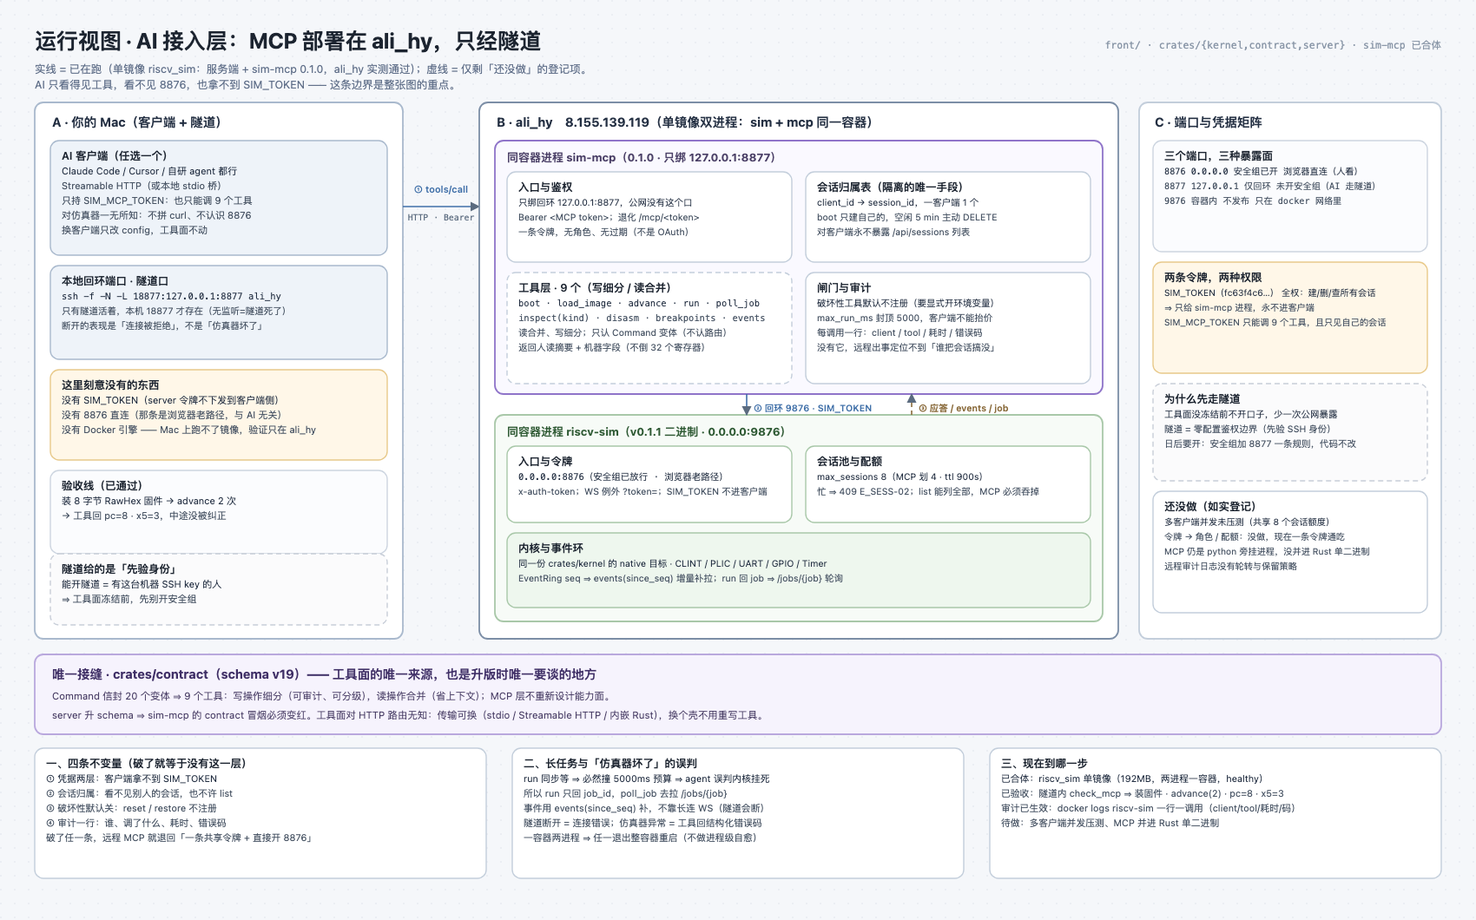
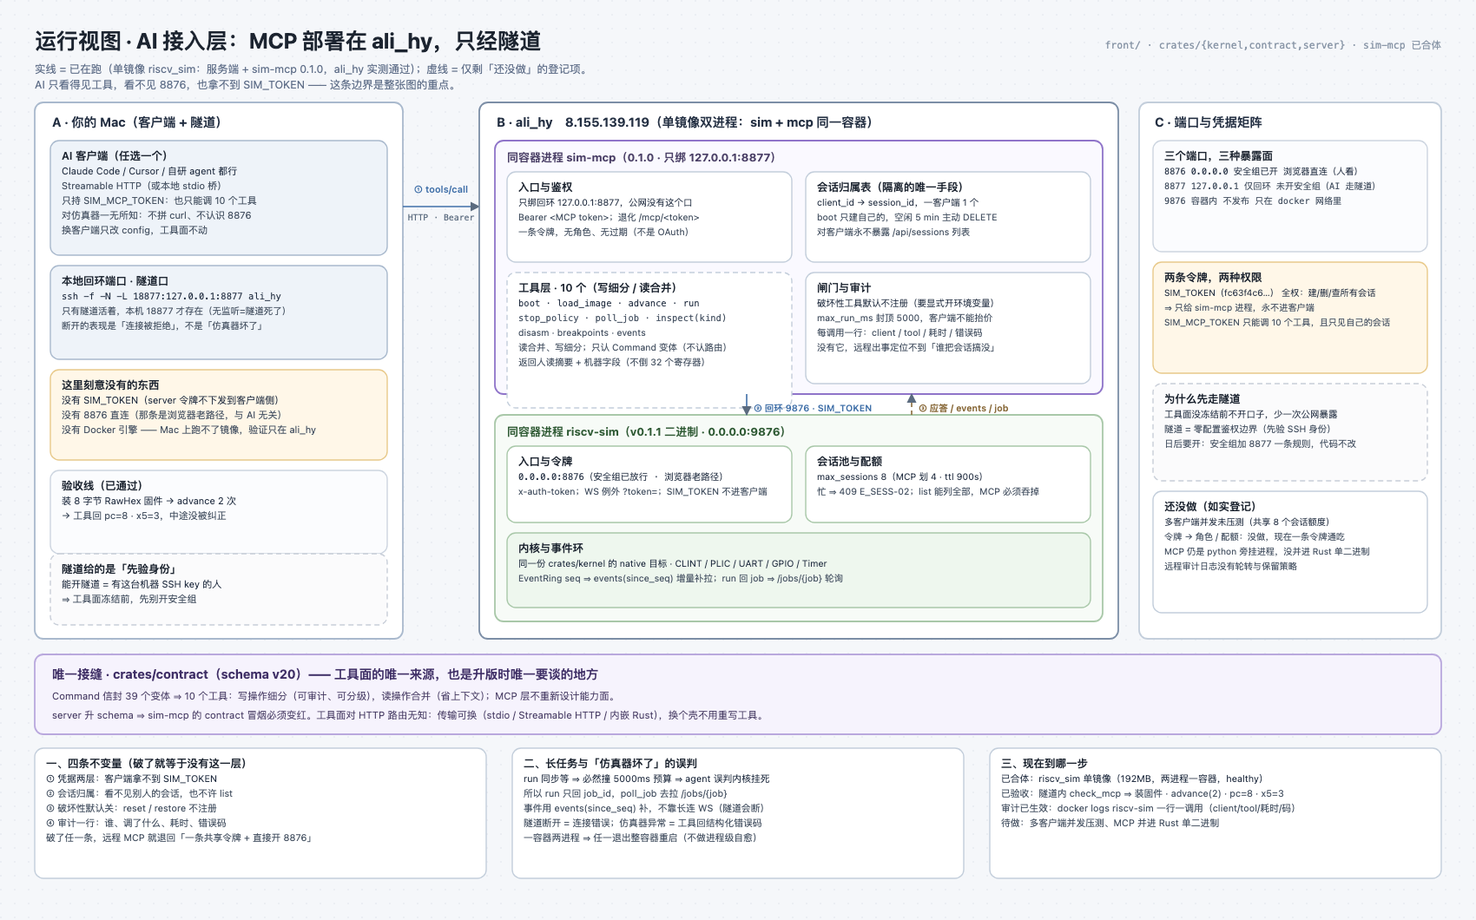
feat(mcp): 第 10 个工具 stop_policy + D 类三条（console 清空 / 预算明说 / 默认预算文案）
- `stop_policy {stop_on_trap, max_trap_events}`：MCP 走契约 `POST …/command`
  （信封 `schema_version` 从 `/api/version` 读，不在 MCP 里留第二份硬编码）；
  内核回 `Error` 当异常抛。`false` 缺配额在 MCP 侧提前拦成 `E_MCP-07`。
- 契约 v20 的 `SetStopPolicy` / `TrapSummary` 镜像同步进 skill 文档
  （SKILL.md 工具表、tools.md 小节、recipes.md 新增 R4b 剧本、排障三条）。
- D-3：`load_image` 装载成功后 `ConsoleRing::clear()` —— 清内容、`base = total`
  继续记账 ⇒ 旧 offset 回 `E_SESS-04` + base，客户端重新对齐，不再把上一份
  固件的输出读成这一份的。
- D-1：`run` 回体新增 `budget_exhausted` / `budget_steps` —— 前缀模式缺省
  1e6 条用尽时 PC 常停在 idle 的 `wif/jal` 循环里，只给 `stop_reason=budget`
  会被读成死锁。
- D-2：`steps` 与 `timeout_ms` 互斥的 400 文案补明「缺省预算 1,000,000 条，
  不够就传 steps」。
- 文档/图：mcp/server.py 升 0.1.3；README 与镜像冒烟脚本改 10 工具口径；
  `mcp-view.svg/.png` 重生成（schema v20 · 39 变体 · 10 工具）。

验证：`cargo test --workspace` 全绿（server lib 71 条含新增 clear 用例）；
`python3 -m py_compile mcp/server.py`；前端 838/838 未受影响。
未验：镜像需 CI 重建（v0.1.8）后跑 `tools/check_image_allinone.py` 才有真机结论。

Changed region(s): [[0.1247, 0.716, 0.4053, 0.7783], [0.3429, 0.3113, 0.4988, 0.4358], [0.8729, 0.3425, 0.9353, 0.3736]]

diff --git a/mcp/server.py b/mcp/server.py
@@ -1,5 +1,5 @@
 #!/usr/bin/env python3
-"""sim-mcp —— 把 riscv_sim 的 HTTP 面收成 9 个 MCP 工具（只依赖标准库）。
+"""sim-mcp —— 把 riscv_sim 的 HTTP 面收成 10 个 MCP 工具（只依赖标准库）。
 
 设计口径（与 docs/architecture/mcp-view.svg 对齐）：
   1. 凭据两层：客户端只持 `SIM_MCP_TOKEN`；`SIM_TOKEN` 只活在本进程 env 里。
@@ -107,6 +107,59 @@ def _decode(blob: bytes):
         return json.loads(blob)
     except json.JSONDecodeError:
         return {"raw": blob.decode("utf-8", "replace")}
+
+
+# --------------------------------------------------------------------------- 契约命令通道
+# ⚠ `SetStopPolicy` 是**契约命令**（不是 REST 资源），走 `POST …/command`：整条
+#    `Message` 进内核，服务端不翻译。信封的 `schema_version` 从 `/api/version`
+#    读 ⇒ ⇒ MCP 里**不**留第二份硬编码版本号。
+_SCHEMA_LOCK = threading.Lock()
+_SCHEMA_CACHE: dict = {}
+
+
+def _schema_version() -> int:
+    with _SCHEMA_LOCK:
+        cur = _SCHEMA_CACHE.get("v")
+    if cur:
+        return cur
+    _, body, _ = _http("GET", "/api/version")
+    v = int(body.get("schema_version") or 0)
+    if v <= 0:
+        raise SimError("E_MCP-10", "/api/version 没给 schema_version", 502)
+    with _SCHEMA_LOCK:
+        _SCHEMA_CACHE["v"] = v
+    return v
+
+
+def _frames_events(frames: list):
+    """把应答帧剥到 `(变体名, 载荷)`；不懂的帧跳过。"""
+    for frame in frames or []:
+        inner = (frame.get("payload") or {}).get("payload") or {}
+        if isinstance(inner, dict) and len(inner) == 1 and next(iter(inner)) in ("Event", "Command"):
+            inner = next(iter(inner.values())) or {}
+        if not isinstance(inner, dict) or len(inner) != 1:
+            continue
+        kind, value = next(iter(inner.items()))
+        yield kind, value
+
+
+def _contract_command(sid: str, payload: dict, req_id: int = 1) -> dict:
+    """发一条契约命令；内核回的 `Error` 事件**当异常抛**（不默默吞掉）。"""
+    msg = {
+        "schema_version": _schema_version(),
+        "direction": "Command",
+        "seq": req_id,
+        "payload": {"Command": payload},
+    }
+    _, body, _ = _http("POST", f"/api/sessions/{sid}/command",
+                       body={"message": msg, "reqId": req_id})
+    frames = body.get("frames") or []
+    for kind, value in _frames_events(frames):
+        if kind == "Error":
+            code = (value or {}).get("code") or "E_MCP-10"
+            detail = (value or {}).get("message") or "内核拒绝了这条命令"
+            raise SimError(code, detail, 400)
+    return body
 
 
 # --------------------------------------------------------------------------- 会话归属
@@ -278,6 +331,36 @@ def t_run(client: str, args: dict) -> dict:
         "text": (f"{note}执行 {body.get('executed')} 条 · pc={body.get('pc')} · "
                  f"t_ps={body.get('t_ps')} · 停因 {body.get('stop_reason')}"),
         "data": body,
+    }
+
+
+def t_stop_policy(client: str, args: dict) -> dict:
+    sid = OWNER.sid(client)
+    if args.get("stop_on_trap") is None:
+        raise SimError("E_MCP-07",
+                       "要显式给 stop_on_trap（true=陷阱交付即停；false=继续跑，但要配额）", 400)
+    stop_on_trap = bool(args["stop_on_trap"])
+    quota = args.get("max_trap_events")
+    if quota is not None:
+        quota = int(quota)
+        if quota < 1:
+            raise SimError("E_MCP-07", "max_trap_events 必须 >= 1", 400)
+    if not stop_on_trap and quota is None:
+        raise SimError("E_MCP-07",
+                       "stop_on_trap=false 必须同时给 max_trap_events"
+                       "（否则 handler 死循环会烧穿预算）", 400)
+    body = _contract_command(sid, {"SetStopPolicy": {
+        "stop_on_trap": stop_on_trap,
+        "max_trap_events": quota,
+    }})
+    if stop_on_trap:
+        text = "停止策略：陷阱**交付即停**（默认 · 与改动前逐字节一致）"
+    else:
+        text = (f"停止策略：陷阱**不**停，最多跑 {quota} 个后停"
+                "（只算同步异常；中断不进这条逻辑）")
+    return {
+        "text": text + " · 会话级粘性：换工程 / 卸载回默认",
+        "data": {"stop_on_trap": stop_on_trap, "max_trap_events": quota, "frames": body.get("frames")},
     }
 
 
@@ -482,6 +565,22 @@ TOOLS = [
         "fn": t_run,
     },
     {
+        "name": "stop_policy",
+        "description": ("会话级陷阱交付策略（R-1）：stop_on_trap=true 交付即停（默认），"
+                        "false 则陷阱继续跑、按 max_trap_events 配额停（**必须**同时给配额）。"
+                        "只作用同步异常（野指针 / 非法指令 / 缺页），中断不进这条逻辑；"
+                        "换工程 / 卸载回默认。"),
+        "inputSchema": {
+            "type": "object",
+            "properties": {
+                "stop_on_trap": {"type": "boolean", "description": "true=交付即停（默认）；false=继续跑"},
+                "max_trap_events": {"type": "integer", "description": "配额（一次批处理窗口内最多几个陷阱）；stop_on_trap=false 时必填"},
+            },
+            "required": ["stop_on_trap"],
+        },
+        "fn": t_stop_policy,
+    },
+    {
         "name": "poll_job",
         "description": "读一条异步作业（run(background=true) 的返回里有 job）。",
         "inputSchema": {
@@ -587,7 +686,7 @@ def handle_rpc(msg: dict, client: str) -> dict | None:
         return _rpc_result(msg_id, {
             "protocolVersion": PROTOCOL if asked != PROTOCOL else asked,
             "capabilities": {"tools": {"listChanged": False}},
-            "serverInfo": {"name": "sim-mcp", "version": "0.1.2"},
+            "serverInfo": {"name": "sim-mcp", "version": "0.1.3"},
             "instructions": ("先 boot，再 load_image(hex=原始字节的十六进制)，然后 advance(n)。"
                              "读状态用 inspect(kind=state)。长任务用 run(background=true)+poll_job。"),
         })
@@ -642,7 +741,7 @@ def _client_id(token: str) -> str:
 
 
 class Handler(BaseHTTPRequestHandler):
-    server_version = "sim-mcp/0.1.2"
+    server_version = "sim-mcp/0.1.3"
     protocol_version = "HTTP/1.1"
 
     def log_message(self, fmt: str, *args) -> None:  # 默认 access log 太吵，审计另有

diff --git a/crates/server/src/session.rs b/crates/server/src/session.rs
@@ -96,6 +96,17 @@ impl ConsoleRing {
         }
     }
 
+    /// 清内容、**不**归零偏移（D-3：换固件时用）。
+    ///
+    /// ⚠ **只 `clear` 不 `reset`**：`total` 继续记账、`base` 推到 `total`
+    /// ⇒ ⇒ 拿着旧 `offset` 的客户端落在窗口之前 ⇒ ⇒ 回 `Err(base)` 让它
+    /// **重新对齐**，而不是把新固件的输出当成旧固件的延续（那才是真的
+    /// 「console 突然变空」）。
+    fn clear(&mut self) {
+        self.buf.clear();
+        self.base = self.total;
+    }
+
     /// 读 `[offset, offset + limit)`。
     ///
     /// 早于 `base` ⇒ `Err(base)`（窗口丢了，告诉客户端从哪重新读）；
@@ -1632,6 +1643,14 @@ fn execute_run(
             "bytes": console.total.saturating_sub(run_base),
             "total": console.total,
         },
+        // ---- D-1：预算用尽要**明说** ----
+        //
+        // ⚠ 前缀模式的缺省预算（1e6 条）跑满时，PC 常常停在 idle 的
+        //   `wif/jal` 循环里 ⇒ ⇒ 客户端只看到 `stop_reason = "budget"` 会
+        //   把它读成「卡死」。这里把「预算用尽」写成**独立字段**，并回显
+        //   上限，让调用方知道该给 `steps` 而不是继续等。
+        "budget_exhausted": stop == "budget",
+        "budget_steps": RUN_PREFIX_DEFAULT_BUDGET,
     });
     // 断点命中：按 pc 去权威表里找（`Halted` 只带 pc，不带 id）。
     if body.get("stop_reason").and_then(|v| v.as_str()) == Some("breakpoint") {
@@ -2178,6 +2197,13 @@ fn spawn_worker(
                                     },
                                 ));
                                 events_ring.push(&restored);
+                                // ---- D-3：换固件 ⇒ console 清内容、偏移不归零 ----
+                                //
+                                // ⚠ 不清的话上一份固件的尾巴会留在 `[0, total)` 里
+                                //   ⇒ ⇒ 客户端从头读会读成「这一份的输出」，误判成
+                                //   「新固件没打印」。偏移继续记账 ⇒ ⇒ 旧 offset 回
+                                //   `E_SESS-04` + base，客户端据此重新对齐。
+                                console.clear();
                                 // 记住这份工程：复位（R-14）要原样重装一遍。
                                 last_image = Some((project_name, kind, bytes));
                             }
@@ -2506,6 +2532,22 @@ mod tests {
         let lost = ring.read(0, 8).expect_err("丢失的窗口必须报错");
         assert_eq!(lost, 2);
         // 晚于 total 的偏移 ⇒ 空，不是错（只是还没产生）。
+        assert_eq!(ring.read(6, 8).expect("未产生不算丢"), b"");
+    }
+
+    /// D-3：`clear` 清内容但**不**归零偏移 ⇒ ⇒ 旧 offset 被如实拒绝。
+    #[test]
+    fn console_ring_clear_keeps_the_offset_accounting() {
+        let mut ring = ConsoleRing::new(64);
+        ring.push(b"old");
+        ring.clear();
+        assert_eq!(ring.total, 3, "total 是**写过**的记账，不因清空而回退");
+        assert_eq!(ring.base, 3, "base 推到 total ⇒ 旧窗口全部作废");
+        // 旧 offset ⇒ 报 base（客户端重新对齐），不是「变空了」。
+        assert_eq!(ring.read(0, 8).expect_err("旧窗口必须报错"), 3);
+        // 从新 base 起读 ⇒ 只有新字节。
+        ring.push(b"new");
+        assert_eq!(ring.read(3, 8).expect("新窗口"), b"new");
         assert_eq!(ring.read(6, 8).expect("未产生不算丢"), b"");
     }
 

diff --git a/tools/check_image_allinone.py b/tools/check_image_allinone.py
@@ -7,7 +7,7 @@
     1. 不给 SIM_MCP_TOKEN 时只是服务端（老行为）—— 这一条由 check_image_front.py 守
     2. 给了 SIM_MCP_TOKEN ⇒ 9876 与 8877 都 /healthz 200
     3. 前端模块图完整（少文件就白屏的那次事故）
-    4. MCP 的 tools/list 至少 9 个工具，且 boot 在
+    4. MCP 的 tools/list 至少 10 个工具，且 boot / stop_policy 在
     5. MCP 的 /healthz 报的是**容器内**上游（127.0.0.1:9876），不是宿主端口
 
 为什么单独一个脚本：合成镜像比单进程镜像多两个失效面 —— 「页面能开但 AI 连不上」
@@ -91,11 +91,11 @@ def main() -> int:
         tools = mcp_post(MCP_PORT, {"jsonrpc": "2.0", "id": 1, "method": "tools/list"})
         names = [t["name"] for t in tools["result"]["tools"]]
         print(f"tools：{len(names)} 个 → {names}")
-        if len(names) < 9 or "boot" not in names:
+        if len(names) < 10 or "boot" not in names or "stop_policy" not in names:
             print("工具面不对", file=sys.stderr)
             return 1
 
-        print("✅ 单镜像冒烟通过：页面模块图完整 + MCP 9 工具 + 上游指向容器内 9876")
+        print("✅ 单镜像冒烟通过：页面模块图完整 + MCP 10 工具 + 上游指向容器内 9876")
         return 0
     finally:
         sh("docker", "rm", "-f", NAME)

diff --git a/crates/server/src/api.rs b/crates/server/src/api.rs
@@ -518,7 +518,7 @@ pub struct RunRequest {
 pub fn plan_run(request: RunRequest, max_run_ms: u64) -> Result<RunSpec, ApiError> {
     if let (Some(_), Some(_)) = (request.steps, request.timeout_ms) {
         return Err(ApiError::bad_request(
-            "give either `steps` or `timeout_ms`, not both (step semantics are exact-n)",
+            "give either `steps` or `timeout_ms`, not both (step semantics are exact-n);              omit both to run to the next stop, where the default budget is 1,000,000 instructions              (pass `steps` when the guest needs more)",
         ));
     }
     if let Some(steps) = request.steps {

diff --git a/skills/riscv-sim-mcp/SKILL.md b/skills/riscv-sim-mcp/SKILL.md
@@ -1,6 +1,6 @@
 ---
 name: riscv-sim-mcp
-description: 通过 sim-mcp（9 个 MCP 工具）驱动远端 RISC-V 仿真器 riscv_sim：装固件、单步推进、跑到停点、读寄存器/内存/console、反汇编、设断点、回放事件。当用户要求在 RISC-V 仿真器里跑固件或调试、问 pc/寄存器/x5/t_ps/断点/反汇编/串口输出、问「AI 怎么驱动仿真器」，或提到 riscv_sim、sim-mcp、MCP 仿真、RISC-V 调试时使用。不用于编译固件，也不替代 HTTP 契约调试。
+description: 通过 sim-mcp（10 个 MCP 工具）驱动远端 RISC-V 仿真器 riscv_sim：装固件、单步推进、跑到停点、调陷阱交付策略、读寄存器/内存/console、反汇编、设断点、回放事件。当用户要求在 RISC-V 仿真器里跑固件或调试、问 pc/寄存器/x5/t_ps/断点/反汇编/串口输出、问「AI 怎么驱动仿真器」，或提到 riscv_sim、sim-mcp、MCP 仿真、RISC-V 调试时使用。不用于编译固件，也不替代 HTTP 契约调试。
 ---
 
 # 用 sim-mcp 驱动 RISC-V 仿真器
@@ -52,8 +52,14 @@ python3 scripts/sim_call.py ... --tool boot --json '{}'
    `name` 的扩展名决定解析：`.bin` = RawHex（一律从 0 起），`.elf` = ELF（真实 entry、多段），
    `.hex` 文本（Intel HEX）会被 `E_PROTO-08` 拒。
 
-3. **`advance` 是「恰好 n 条」，`run` 是「跑到停点」。** 想复现就只用 `advance`；
+3. **要验异常路径（野指针 / 非法指令 / 缺页）先调 `stop_policy {stop_on_trap:false, max_trap_events:N}`**
+   —— 否则陷阱交付即停，handler 一条指令都跑不到，后面全丢。它是**会话级粘性**
+   命令，换工程 / 卸载回默认；中断不进这条逻辑。
+
+4. **`advance` 是「恰好 n 条」，`run` 是「跑到停点」。** 想复现就只用 `advance`；
    `run` 默认 5 秒墙钟，撞钟回 `504`，但 **body 仍是完整停点报告** —— 读它，不是报失败。
+   `run` 的 `stop_reason = "budget"` 意思是**指令预算用尽**（前缀模式缺省 1e6 条，回体
+   `budget_exhausted:true` 会明说），不是死锁 —— 给 `steps` 再来。
 
 ## 3. 工具面：写细分、读合并
 
@@ -65,6 +71,7 @@ python3 scripts/sim_call.py ... --tool boot --json '{}'
 | `advance` | 恰好走 n 条 | `n`（1..100000） |
 | `run` | 跑到停点 | `steps` / `timeout_ms` / `prefix`（console 命中）/ `until`（breakpoint\|halt）/ `background` |
 | `poll_job` | 读异步作业 | `job`（`run(background=true)` 回体里的） |
+| `stop_policy` | 会话级陷阱交付策略（**R-1**） | `stop_on_trap`（true=交付即停，默认）；`false` 时 `max_trap_events` **必填** |
 | `inspect` | 读状态/串口/内存 | `kind`=state\|console\|memory；`addr` `len` `format`(u32\|asc) `offset` `limit` |
 | `disasm` | 反汇编 | `addr` `count` |
 | `breakpoints` | 断点表 | `op`=list\|set\|clear\|enable（set 三选一：`addr`/`symbol`/`condition`） |

diff --git a/mcp/README.md b/mcp/README.md
@@ -1,6 +1,6 @@
 # sim-mcp · AI 接入层
 
-把 `riscv_sim` 的 HTTP 面收成 **9 个 MCP 工具**，让 AI（Claude Code / Cursor / 自研 agent）
+把 `riscv_sim` 的 HTTP 面收成 **10 个 MCP 工具**，让 AI（Claude Code / Cursor / 自研 agent）
 能驱动一个真的在跑的仿真器。对应图：`docs/architecture/mcp-view.svg`。
 
 ## 它是什么，不是什么
@@ -14,16 +14,29 @@
 | 令牌 | 谁持有 | 能干什么 |
 |---|---|---|
 | `SIM_TOKEN` | **只有本进程**（env） | 建/删/查所有会话、跑任意固件 |
-| `SIM_MCP_TOKEN` | 客户端 | 只能调 9 个工具，且只见自己的会话 |
+| `SIM_MCP_TOKEN` | 客户端 | 只能调 10 个工具，且只见自己的会话 |
 
 启动时若两条令牌相同 ⇒ 直接拒绝启动（那等于把两层凭据退化成一层）。
 
 ## 工具面（写细分 / 读合并）
 
-`boot` · `load_image` · `advance` · `run` · `poll_job` · `inspect` · `disasm` · `breakpoints` · `events`
+`boot` · `load_image` · `advance` · `run` · `stop_policy` · `poll_job` · `inspect` · `disasm` · `breakpoints` · `events`
 （`reset` / `drop_session` 属破坏性，需 `SIM_MCP_ALLOW_DESTRUCTIVE=1` 才注册）
 
 `run` 只回 `job`，长任务用 `poll_job` —— 因为 `max_run_ms` 默认 5000，同步等必然撞墙钟。
+
+`stop_policy` 是**会话级粘性命令**（契约 v20 · R-1）：`stop_on_trap=false` 让同步异常
+（野指针 / 非法指令 / 缺页）交付后继续跑 handler，**必须**同时给 `max_trap_events`
+配额；换工程 / 卸载回默认。看异常路径的标准套路：
+
+```
+stop_policy {"stop_on_trap": false, "max_trap_events": 1024}
+run          {"prefix": "[SZTEST] end", "steps": 8000000}
+```
+
+停在统计阈值后，`run` 回体的 `stop_reason` 与停点一起给出；事件流里有
+`TrapSummary {count, first_cause, first_mepc, first_mtvec_target}`（默认策略下**不发**）。
+中断不进这条逻辑。
 
 ## 客户端手上的 ELF 怎么装（文件上行）
 
@@ -41,7 +54,7 @@ curl -X POST http://127.0.0.1:18877/images \
 
 **装载只有这一条路**（skill 也这么要求）：`load_image` 只在 8 字节基线自检时用 `hex`。
 协议里的 `b64` / `path` 还留着（历史兼容），但不要拿它们装真文件 —— 一个烧上下文，
-一个依赖「文件已经在服务器上」。工具数仍是 9 个。
+一个依赖「文件已经在服务器上」。工具数仍是 10 个。
 
 ## 起了它之后怎么验
 

diff --git a/skills/riscv-sim-mcp/references/tools.md b/skills/riscv-sim-mcp/references/tools.md
@@ -1,4 +1,4 @@
-# 工具面细节（sim-mcp 0.1.0）
+# 工具面细节（sim-mcp 0.1.1）
 
 所有工具都是 `tools/call`，返回 `structuredContent = {summary, data}`：`summary` 是给人读的
 一行，`data` 是给判断用的结构。失败时 `isError: true`，`content[0].text` 带错误码。
@@ -59,6 +59,17 @@ content-type: application/octet-stream
   - `background`：`true` ⇒ 立刻回 `job`（`202`），不阻塞
 - 返回：同步 `{executed, pc, t_ps, stop_reason, ...}`；异步 `{job, ...}`
 - **撞墙钟回 `504`，但 body 是完整停点报告** —— 按成功读，别当失败
+
+## stop_policy
+
+- 参数：`stop_on_trap`（**必填**）、`max_trap_events`（配额，`stop_on_trap=false` 时**必填**）
+- `true`（默认）⇒ 同步异常交付即停，与改动前逐字节一致（AC1 基线）
+- `false` ⇒ 陷阱交付后**继续跑** handler，最多 N 个后停（配额按**一次批处理窗口**计）
+- `false` 不给配额：内核 `E_PROTO-08`；MCP 侧提前拦，给你 `E_MCP-07`
+- **会话级粘性**：一次调用管到换工程 / 卸载（那时回默认）；`advance` / `run` 都吃它
+- 事件流里会出现 `TrapSummary {count, first_cause, first_mepc, first_mtvec_target}`
+  —— 只在非默认策略下发；`first_mtvec_target` 是 `enter_trap` 真正跳去的地址
+- 中断（定时器 / 外设）**不进**这条逻辑：它们在指令边界交付，批次不停
 
 ## poll_job
 

diff --git a/docs/USER_GUIDE.md b/docs/USER_GUIDE.md
@@ -807,7 +807,7 @@ node tools/browser-verify.mjs        # 需要本机 Chrome
 | 看系统怎么跑起来 | [`docs/architecture/runtime-view.svg`](./architecture/runtime-view.svg)（运行视图：浏览器两种身份 / 服务进程 / 契约接缝；`.png` 同名） |
 | 看部署形态 | [`docs/architecture/deploy-view.svg`](./architecture/deploy-view.svg)（部署视图：一个端口、容器、卷、探针） |
 | 看 AI 怎么接进来 | [`docs/architecture/mcp-view.svg`](./architecture/mcp-view.svg)（MCP 运行视图：客户端 / 隧道 / sim-mcp / 令牌两层；`.png` 同名） |
-| 让 AI 直接干活 | [`skills/riscv-sim-mcp/`](../skills/riscv-sim-mcp/SKILL.md)（9 个工具的用法、标准循环、剧本、排查；装到 `.user_skills` 即生效） |
+| 让 AI 直接干活 | [`skills/riscv-sim-mcp/`](../skills/riscv-sim-mcp/SKILL.md)（10 个工具的用法、标准循环、剧本、排查；装到 `.user_skills` 即生效） |
 | 看需求 | [`docs/requirements/RISC-V_Requirements_v1.4.html`](./requirements/RISC-V_Requirements_v1.4.html) |
 | 看某个模块怎么设计 | [`docs/module-design-spec/RISC-V_Module_Design_Specification.html`](./module-design-spec/RISC-V_Module_Design_Specification.html)（23 模块 LLD）+ [`docs/detailed-design/M-01..M-23_*.html`](./detailed-design/) |
 | 看某一批的规格与裁决 | [`docs/detailed-design/STAGE-1..STAGE-42_*.md`](./detailed-design/)（**41 份**冻结规格） |

diff --git a/skills/riscv-sim-mcp/references/recipes.md b/skills/riscv-sim-mcp/references/recipes.md
@@ -59,6 +59,21 @@ poll_job {"job":"<上一步的 job>"}          → 重复到终态
 判据：作业终态出现，且 `executed` 与预期量级一致。
 `poll_job` 空转超过 3 次仍无进展 ⇒ 用 `inspect {"kind":"state"}` 确认它是不是卡在某个 `pc`。
 
+## R4b · 验异常路径（R-1：崩溃后继续跑完）
+
+```
+stop_policy {"stop_on_trap":false,"max_trap_events":1024}
+run {"prefix":"[SZTEST] end","steps":8000000}
+```
+
+判据：`stop_reason` 不是 `trap`，而是 `prefix`（哨兵出现）或 `budget`；
+事件流里有 `TrapSummary`，且 `first_cause` / `first_mepc` 与固件里那条肇事指令对得上。
+
+- 默认策略下**没有** `TrapSummary` —— 它缺席是正常的（AC1 基线）
+- 回默认：`stop_policy {"stop_on_trap":true}`（或换工程 / 卸载）
+- `false` 忘给配额 ⇒ 内核 `E_PROTO-08` / MCP `E_MCP-07`（提前拦）
+- `run` 回 `budget_exhausted:true` ⇒ 指令预算用尽（缺省 1e6 条），给 `steps` 再来
+
 ## R5 · 定位「pc 为什么停这儿」
 
 ```

diff --git a/skills/riscv-sim-mcp/references/troubleshooting.md b/skills/riscv-sim-mcp/references/troubleshooting.md
@@ -53,6 +53,9 @@
 | `x5` 恒为 0 | 只跑了 1 条（第 2 条才写 3），或装的是 `.hex` 文本被当原始字节 |
 | `load_image` 回 `E_PROTO-08` | 给了 Intel HEX 文本；改成裸 `.bin` 或 `.elf` |
 | `entry` 不是期望值 | `.bin` 是 RawHex，没有 ELF 头 ⇒ 一律从 0 开始；要真实入口就给 `.elf` |
+| 陷阱后 console 停住、后续用例全丢 | 默认策略「交付即停」；要跑 handler 就先 `stop_policy {stop_on_trap:false, max_trap_events:N}` |
+| `stop_reason=budget`，pc 在 idle 的 `wif/jal` 循环 | 预算用尽（前缀模式缺省 1e6 条），回体 `budget_exhausted:true`；给 `steps` 再来，不是死锁 |
+| 换了固件 `inspect kind=console offset=0` 读到空/旧串 | 装载会清 console（偏移不归零）；按回体 `console.base` 重新对齐，旧 offset 会 `E_SESS-04` |
 
 ## 7. 找不到破坏性工具
 
